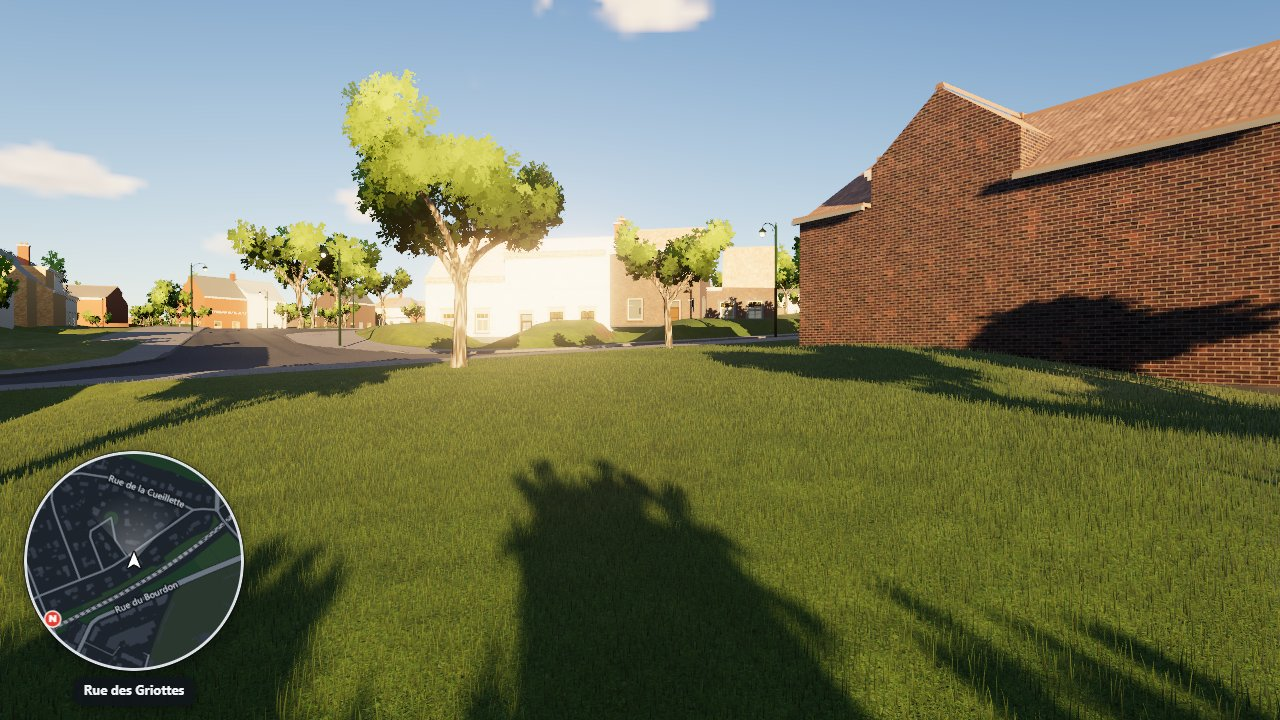
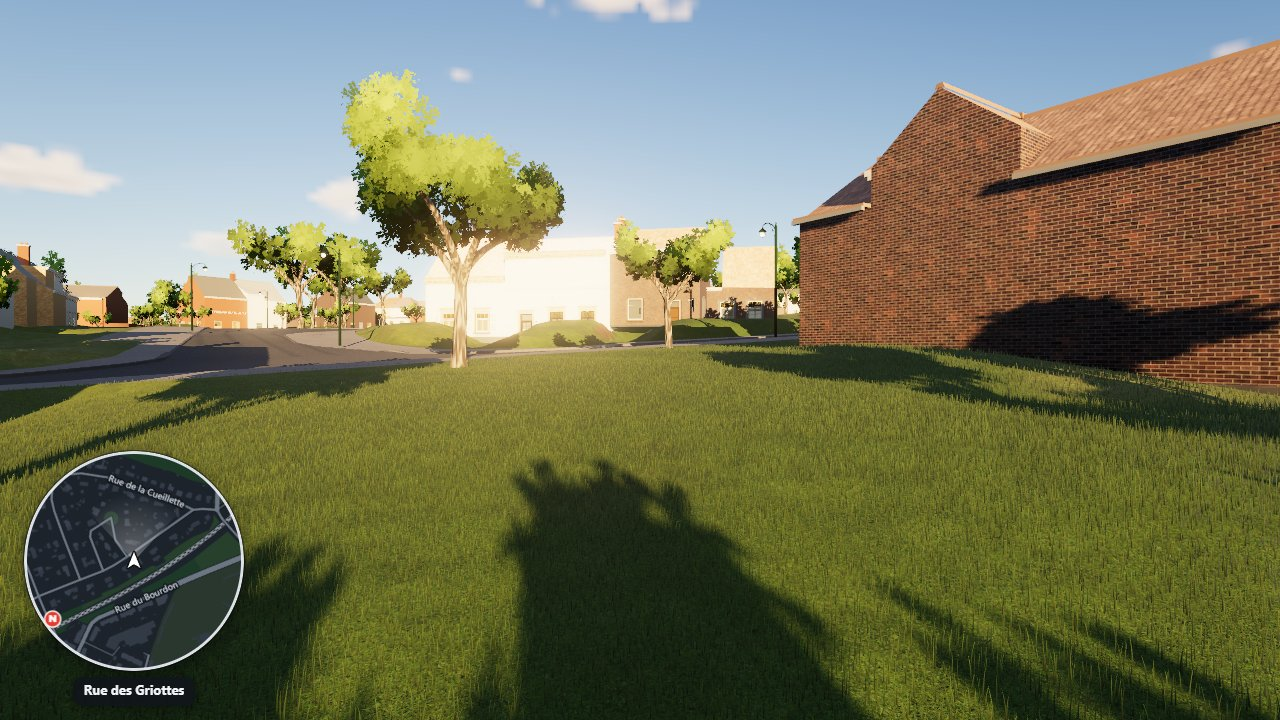
Grass: blades take only sun + sky in the city (lightsNode), Lambert option for low/medium presets, final measurements in docs/GRASS.md

diff --git a/viewer/grass/grass.js b/viewer/grass/grass.js
@@ -29,7 +29,7 @@ import * as THREE from "three/webgpu";
 import {
   Fn, If, uniform, float, int, uint, vec2, vec3, vec4, instanceIndex, instancedArray, storage, atomicAdd, atomicStore, atomicLoad,
   hash, smoothstep, mix, clamp, max, min, abs, sqrt, length, normalize, cross, dot, cos, sin, cameraPosition, cameraViewMatrix,
-  varying, select, floor, pow, attribute, sign, PI2, texture, atan, time,
+  varying, select, floor, pow, attribute, sign, PI2, texture, atan, time, lights,
 } from "three/tsl";
 import { windAt, wind } from "../foliage/wind.js";
 import { noiseTex } from "../ground.js";
@@ -85,8 +85,14 @@ export class Grass {
   /** renderer: WebGPURenderer (WebGPU backend); opts.preset */
   static supported(renderer) { return !!renderer?.backend?.isWebGPUBackend; }
 
-  constructor(renderer, { preset = "high" } = {}) {
+  /** opts.lights: the lights the blades take (e.g. [sun, hemisphere]): the city's pooled lamp point / spot lights are
+   *  left out (the lamp light map lights the grass at night): each extra light is evaluated by every blade fragment */
+  /** opts.lambert: Lambert blades (no specular: ~45 % cheaper in the city, but a backlit lawn loses the sheen that
+   *  reads as light through the blades); default: the low / medium presets, or ?grasslambert=1 */
+  constructor(renderer, { preset = "high", lights: lightList = null, lambert = /[?&]grasslambert=1/.test(location.search) || preset === "low" || preset === "medium" } = {}) {
     this.renderer = renderer;
+    this.lambert = lambert;
+    this.lightList = lightList;
     this.field = new GrassField(renderer);
     this.push = new GrassPush();
     this.group = new THREE.Group(); this.group.name = "grass";
@@ -116,8 +122,10 @@ export class Grass {
     this.indirect.array[l * 5] = geom.index.count;
     geom.setIndirect(this.indirect, l * 5 * 4);
     const L = { l, cap, base, geom, n: l * 5 + 1 };
-    const mat = new THREE.MeshStandardNodeMaterial({ side: THREE.DoubleSide, roughness: 0.85, metalness: 0 });
+    // Standard: its specular lobe at grazing backlight is what makes a lawn glow into a low sun; Lambert is the cheap one
+    const mat = this.lambert ? new THREE.MeshLambertNodeMaterial({ side: THREE.DoubleSide }) : new THREE.MeshStandardNodeMaterial({ side: THREE.DoubleSide, roughness: 0.85, metalness: 0 });
     this.bladeNodes(mat, L);
+    if (this.lightList) mat.lightsNode = lights(this.lightList);
     mat.name = `grass-lod${l}`;
     L.mesh = new THREE.Mesh(geom, mat);
     L.mesh.frustumCulled = false; L.mesh.castShadow = false; L.mesh.receiveShadow = true;
@@ -308,7 +316,7 @@ export class Grass {
     const dbg = [vec3(1.6, 0.5, 0.5), vec3(0.5, 1.6, 0.5), vec3(0.5, 0.5, 1.8)][L.l];
     col = mix(col, col.mul(dbg), grassU.debugLod);
     mat.colorNode = varying(col, "v_grC");
-    mat.roughnessNode = float(0.82);
+    if (!this.lambert) mat.roughnessNode = float(0.82);
     addLampLight(mat);
   }
 

diff --git a/viewer/grass/cityGrass.js b/viewer/grass/cityGrass.js
@@ -13,11 +13,11 @@ export const cityGrass = {
   grass: null,
   kinds: null,
   /** before the first tile (so the first frames, under the boot cover, build its shaders) */
-  async start({ scene, renderer, updaters, world, log = () => {} }) {
+  async start({ scene, renderer, updaters, world, lighting = null, log = () => {} }) {
     if (!this.on) return;
     if (!Grass.supported(renderer)) { log("grass: needs WebGPU (the textured ground alone)"); this.on = false; return; }
     this.kinds = await fetch(new URL("../../data/grass/osm_grass.json", import.meta.url)).then((r) => r.json()).then((d) => d.kinds).catch(() => null);
-    const g = new Grass(renderer, { preset: params.get("grasspreset") || "high" });
+    const g = new Grass(renderer, { preset: params.get("grasspreset") || "high", lights: lighting ? [lighting.sun, lighting.hemi].filter(Boolean) : null });
     g.groundAt = (x, z) => (world.tiles.length ? world.ground(x, z) : 0);
     scene.add(g.group);
     this.grass = g;

diff --git a/viewer/main.js b/viewer/main.js
@@ -728,7 +728,7 @@ async function main() {
     },
   };
   worldRef = world;
-  await cityGrass.start({ scene, renderer, updaters, world, log });   // ?grass=1 (default off): our grass, docs/GRASS.md
+  await cityGrass.start({ scene, renderer, updaters, world, lighting, log });   // ?grass=1 (default off): our grass, docs/GRASS.md
 
   if (params.get("lampmodel") !== "0") setLampModel(await loadLampModel());   // the Blender lamp (?lampmodel=0: the old cylinders)
   // The Saint-Job church (tools/blender/stjob.py, viewer/stjobModel.js) in place of its UrbIS solid (HIDE_BU_IDS);

diff --git a/docs/GRASS.md b/docs/GRASS.md
@@ -112,7 +112,8 @@ tiles in the city (65 bakes).
 
 ## 5. Light, night, seasons, wind, push
 
-- `MeshStandardNodeMaterial`, double sided:
+- `MeshStandardNodeMaterial` (Lambert with `?grasslambert=1` and the low / medium presets), double sided, taking
+  only the sun and the hemisphere light in the city (`lightsNode`):
   - the city's sun and sky;
   - **the sun's shadow map** (receives the shadows of trees and buildings; casts none);
   - the city's fog;
@@ -143,18 +144,35 @@ timestamps (render + compute), A/B in alternating rounds, 1280x720 at DPR 1.5 in
 - RED at other times: the coordinator's city tab was rendering (GPU busy 21-57 % at rest). Those numbers are
   marked "(noisy)" below.
 
-| Scene (lab, preset high) | Blades drawn (LOD0 / 1 / 2) | GPU grass on - off | Preflight |
-|---|---|---|---|
-| Wolvendael lawn F4, golden, standing | 6.2k / 17.7k / 8.8k (6 cm cells) | **+0.26 ms** (pairs 0.13-0.79) | YELLOW |
-| Front gardens D8, golden, standing | 9.3k / 15.3k / 2.0k (6 cm cells) | **+0.13 ms** (pairs -0.26-0.26) | YELLOW |
-| Rue Zandbeek verge C8, parked car | 2.6k / 10.4k / 2.2k | **+0.07 ms** | YELLOW |
-| Rue Zandbeek, driving 30 km/h | 2.0k / 5.9k / 1.6k | **+0.20 ms** | YELLOW |
-| First try (before the dispatch box), F4, coordinator rendering | 9.2k / 18.4k / 7.6k | +1.57 ms (noisy) | RED |
-| City `?grass=1`, D8 lawn (9 tiles + far ring), coordinator rendering | 17.4k / 31.7k / 5.4k (4.5 cm cells) | +0.41 ms (-0.85..+1.57, noisy) | RED |
+Final grid (4.5 cm cells), lab, Standard material, all lights (lab), YELLOW, coordinator's tab parked:
 
-The denser final grid (4.5 cm cells, about 1.8x the candidates) was re-measured only in the city run above, which
-was noisy: **to re-run on a quiet machine.** Compute timestamps alone are quantized by Chrome (65.5 µs steps), so
-only the on / off total is used.
+| Scene (lab) | Preset | Blades drawn (LOD0 / 1 / 2) | GPU grass on - off (pairs) |
+|---|---|---|---|
+| Wolvendael lawn F4, golden, standing | high | 16.9k / 32.3k / 13.5k | **+0.59 ms** (0.59-0.92) |
+| Wolvendael lawn F4 | low | 7.7k / 7.7k / 0.3k | **+0.26 ms** (0.00-0.46) |
+| Front gardens D8, golden, standing | ultra / high / medium / low | 59k / 47k / 28k / 13k in all | +0.66 / **+0.20** / +0.13 / +0.20 ms (noisy pairs, -0.5..+1.3) |
+| Rue Zandbeek verge C8, parked car | high | 4.8k / 18.3k / 3.9k | **+0.20 ms** (-0.07-0.39) |
+| Rue Zandbeek, driving 30 km/h | high | 0 / 2.4k / 1.3k | +0.07 ms (-0.33-0.46) |
+
+City `?grass=1`, D8 lawn at 1.6 m (Rue des Griottes, 9 full tiles + far ring, 1280x720), `debug/gpuAB.js alternate`,
+6 rounds:
+
+| City variant | Blades | GPU grass on - off |
+|---|---|---|
+| Standard, all lights; coordinator's tab rendering (RED) | 54.5k | +0.41 ms (-0.85..+1.57), +1.24 ms (0.92..2.16): noisy, not counted |
+| Standard, all the city's lights (its lamp light pool too), tab parked | 54.5k | +0.81 ms (0.46..1.18) |
+| Standard, **sun + hemisphere only** (`lightsNode`), tab parked | 54.5k | +0.78 ms (0.39..1.37); a later, steadier run: **+0.47 ms (0.40..0.53)** |
+| Lambert, sun + hemisphere (`?grasslambert=1`, presets low / medium) | 54.5k | **+0.43 ms** (0.13..0.66) |
+
+**Within the ~1 ms budget at street level.** The cost is the blade fragments: compute on its own is within noise
+(the "compute only" mode equals "off"). In the city most of it comes from the lights every fragment evaluates. The
+blades now take only the sun and the sky (`lights([sun, hemi])`); at night the lamp light map lights them.
+Lambert is ~45 % cheaper but loses the grazing specular that makes a lawn glow into a low sun (black stubble
+backlit), so Standard stays the default for high / ultra.
+
+0 synchronous pipelines in the lab drive (68 at the lab's warm-up), and 0 during a 41 s city flight at street level
+across 3 newly streamed tiles (65 field bakes). Field re-bake: ~0.7 ms CPU after the first (31-36 ms with its shader
+build).
 
 Presets (`?preset=`, `grass.setPreset()`: uniforms only, no shader rebuild; the buffer caps are fixed at
 construction): `low` (density 0.55, reach 0.6, 28 m), `medium` (0.8, 0.8, 38 m), `high` (1, 1, 48 m, default),
@@ -188,11 +206,11 @@ Download: 13 KB (osm_grass.json); the city fetches each tile's surfaces.json onc
 | `season_winter_20jan_frost.jpeg`, `season_summer_3aug_dry.jpeg` | the season hook |
 | `strip_park_walk.jpeg`, `strip_verge_drive.jpeg` | moving frame strips |
 | `flicker_garden_strafe_heat.jpeg` | shimmer heat map |
-| `city_D8_grass1.jpeg` | the city with `?grass=1` (D8, Rue des Griottes) |
+| `city_D8_grass1.jpeg` / `city_D8_grass0.jpeg` | the city with `?grass=1` / without (D8, Rue des Griottes; the `_grass0` shot was taken with the Lambert test build, no difference without grass) |
 
 ## 8. What's left
 
-- A quiet-machine re-measure of the final grid: lab scenes x presets, and the city A/B at street level and from a car.
+- A re-measure on a fresh machine (preflight GREEN: free memory stayed at 2-3 GB, YELLOW at best): the lab x presets, the city from a car and at golden hour / night.
 - City: wire the pushers (`driver` wheels, `walker` feet, the falcon landing).
 - Move `grassTypeData` (38 ms per tile on the main thread) and the surfaces.json fetch into the tile worker.
 - Landmark models (Saint-Job, the Observatory, ...) are not yet solids in the field (the UrbIS solid they replace is
